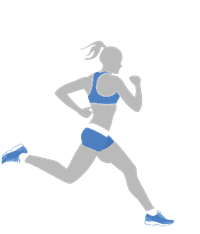
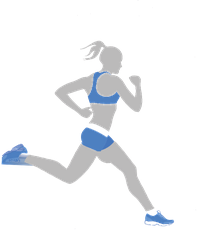
demo: 专家建议改横排+渐显；使用方式改为两条路径动画；口号条移到页尾；修掉左鞋缺口

Changed region(s): [[0.0, 0.5983, 0.18, 0.7179]]

diff --git a/demo/index.html b/demo/index.html
@@ -271,43 +271,60 @@
   @media (prefers-reduced-motion: reduce){ .orb-item{transition:none} }
 
 
-  /* 专家建议 */
+  /* 专家建议：横排 7 人 */
   .expert{background:var(--paper)}
-  .expert-grid{display:grid;grid-template-columns:1.15fr .85fr;gap:clamp(28px,4vw,64px);align-items:start}
-  .expert-list{list-style:none;margin:0;padding:0;display:grid;gap:14px}
-  .expert-list li{position:relative;padding-left:26px;font-size:clamp(.9rem,1.1vw,.98rem);line-height:1.9;color:var(--ink2)}
-  .expert-list li::before{content:"";position:absolute;left:0;top:.72em;width:9px;height:9px;border-radius:50%;
-    border:1.4px solid var(--gold);opacity:.75}
-  .expert-side{padding:clamp(24px,3vw,38px);border:1px solid var(--line);border-radius:14px;
-    background:linear-gradient(180deg,#fff, #FBF8F1);text-align:center}
-  .es-lead{font-size:.86rem;letter-spacing:.14em;color:var(--muted)}
-  .es-words{margin-top:14px;display:flex;flex-direction:column;gap:8px;
-    font-family:var(--serif);font-size:clamp(1.3rem,2.2vw,1.8rem);color:var(--gold);line-height:1.5}
-  .es-cta{margin-top:20px;padding-top:16px;border-top:1px solid var(--line);
-    font-size:.8rem;letter-spacing:.16em;color:var(--ink)}
+  .expert-row{list-style:none;margin:clamp(30px,4vw,50px) 0 0;padding:0;
+    display:grid;grid-template-columns:repeat(7,1fr);gap:clamp(10px,1.4vw,20px)}
+  .expert-row li{display:flex;flex-direction:column;gap:12px;padding:22px 16px;border:1px solid var(--line);
+    border-radius:12px;background:#fff;opacity:0;transform:translateY(16px);
+    transition:opacity .6s var(--ease),transform .6s var(--ease);
+    transition-delay:calc(var(--i) * 70ms)}
+  .expert.in .expert-row li{opacity:1;transform:none}
+  .expert-row li:hover{border-color:rgba(168,131,74,.45);transform:translateY(-4px)}
+  .ei{width:34px;height:34px;border-radius:50%;background:rgba(168,131,74,.10);display:grid;place-items:center}
+  .ei svg{width:18px;height:18px;fill:none;stroke:var(--gold);stroke-width:1.6;stroke-linecap:round;stroke-linejoin:round}
+  .expert-row b{font-size:.8rem;font-weight:500;line-height:1.65;color:var(--ink2)}
 
-  /* 内服 / 外用 */
+  /* 使用方式：两条路径 */
   .usage{background:var(--paper2);border-top:1px solid var(--line)}
-  .usage-grid{display:grid;grid-template-columns:1fr 1fr;gap:clamp(18px,2.4vw,30px)}
-  .u-card{background:#fff;border:1px solid var(--line);border-radius:14px;padding:clamp(24px,3vw,36px);
-    transition:transform .4s var(--ease),box-shadow .4s var(--ease)}
-  .u-card:hover{transform:translateY(-6px);box-shadow:0 26px 50px rgba(20,24,29,.10)}
-  .u-head{display:flex;align-items:center;gap:12px}
-  .u-ic{width:44px;height:44px;border-radius:50%;background:rgba(168,131,74,.12);display:grid;place-items:center}
-  .u-ic svg{width:23px;height:23px;fill:none;stroke:var(--gold);stroke-width:1.6;stroke-linecap:round;stroke-linejoin:round}
-  .u-head b{display:block;font-family:var(--serif);font-size:1.24rem;color:var(--ink)}
-  .u-head i{display:block;font-style:normal;font-size:.62rem;letter-spacing:.16em;color:var(--muted);text-transform:uppercase}
-  .u-sub{margin-top:16px;font-size:.82rem;letter-spacing:.1em;color:var(--gold)}
-  .u-text{margin-top:12px;font-size:.92rem;line-height:1.95;color:var(--ink2)}
-  .u-tip{margin-top:16px;padding:12px 14px;border-radius:10px;background:rgba(168,131,74,.06);
-    font-size:.8rem;line-height:1.8;color:var(--ink2)}
-  .u-tip b{margin-right:8px;color:var(--gold);font-weight:600}
-  .u-points{list-style:none;margin:18px 0 0;padding:0;display:grid;grid-template-columns:repeat(4,1fr);gap:8px}
-  .u-points li{font-size:.72rem;text-align:center;padding:8px 4px;border-radius:8px;
-    border:1px solid var(--line);color:var(--ink2)}
+  .paths{position:relative;margin-top:clamp(28px,4vw,46px);height:clamp(360px,42vw,470px)}
+  .paths-svg{position:absolute;inset:0;width:100%;height:100%;overflow:visible}
+  .p-line{fill:none;stroke:rgba(168,131,74,.55);stroke-width:1.6;stroke-dasharray:6 7;
+    pathLength:1;stroke-dashoffset:1;transition:stroke-dashoffset 1.6s var(--ease) .2s}
+  .usage.in .p-line{stroke-dashoffset:0}
+  .p-core{position:absolute;left:50%;top:0;transform:translate(-50%,-50%);
+    display:flex;align-items:center;gap:9px;padding:12px 20px;border-radius:999px;
+    background:var(--gold);color:#fff;box-shadow:0 14px 30px rgba(168,131,74,.28);white-space:nowrap}
+  .p-core svg{width:18px;height:18px;fill:none;stroke:#fff;stroke-width:1.6;stroke-linecap:round;stroke-linejoin:round}
+  .p-core span{font-size:.86rem;letter-spacing:.04em}
+  .p-branch{position:absolute;top:56%;width:min(360px,40%);padding:clamp(20px,2.6vw,30px);
+    border:1px solid var(--line);border-radius:14px;background:#fff;
+    box-shadow:0 18px 40px rgba(20,24,29,.07)}
+  .p-left{left:2%}
+  .p-right{right:2%}
+  .p-branch h3{margin:0;font-family:var(--serif);font-size:1.2rem;color:var(--ink);display:flex;align-items:baseline;gap:8px}
+  .p-branch h3 i{font-style:normal;font-size:.56rem;letter-spacing:.18em;color:var(--muted)}
+  .p-branch>p{margin-top:8px;font-size:.78rem;letter-spacing:.08em;color:var(--gold)}
+  .p-branch ol{list-style:none;margin:16px 0 0;padding:0;display:grid;gap:11px}
+  .p-branch li{font-size:.84rem;line-height:1.6;color:var(--ink2);display:flex;gap:10px}
+  .p-branch li b{flex:0 0 auto;font-size:.66rem;letter-spacing:.1em;color:var(--gold);padding-top:3px}
+
+  /* 底部口号条 */
+  .es-band{margin-top:clamp(36px,5vw,64px);padding:clamp(26px,3.4vw,40px);
+    border:1px solid var(--line);border-radius:16px;text-align:center;
+    background:linear-gradient(180deg,#fff,#FBF8F1)}
+  .es-lead{font-size:.84rem;letter-spacing:.16em;color:var(--muted)}
+  .es-words{margin-top:16px;display:flex;justify-content:center;gap:clamp(20px,4vw,60px);
+    font-family:var(--serif);font-size:clamp(1.2rem,2.2vw,1.7rem);color:var(--gold)}
+  .es-cta{margin-top:20px;padding-top:18px;border-top:1px solid var(--line);
+    font-size:.82rem;letter-spacing:.18em;color:var(--ink)}
   @media (max-width:960px){
-    .expert-grid,.usage-grid{grid-template-columns:1fr;gap:20px}
-    .u-points{grid-template-columns:repeat(2,1fr)}
+    .expert-row{grid-template-columns:repeat(2,1fr)}
+    .paths{height:auto}
+    .paths-svg{display:none}
+    .p-core{position:static;transform:none;display:inline-flex;margin:0 auto 18px}
+    .p-branch{position:static;width:100%;margin-top:14px}
+    .es-words{gap:14px;font-size:1.05rem}
   }
   /* STATS */
   .stats{background:var(--paper2);border-top:1px solid var(--line);border-bottom:1px solid var(--line)}
@@ -669,22 +686,9 @@
       <h2 class="reveal d1">哪些人，<br>需要补小分子活性肽？</h2>
       <p class="reveal d2">30 岁以后，身体合成肽的能力逐年下降。以下七类人，是最该补的一群。</p>
     </div>
-    <div class="expert-grid">
-      <ul class="expert-list reveal">
-        <li>免疫力低下、长期处于亚健康的人</li>
-        <li>需要预防和改善慢性病的人</li>
-        <li>需要预防骨质疏松、补充钙质的人</li>
-        <li>想增强体力、改善虚弱与易疲劳体质的人</li>
-        <li>想改善睡眠、增强记忆力的人</li>
-        <li>想抗衰除皱、美容养颜、恢复青春活力的人</li>
-        <li>想增强健康生殖能力的人</li>
-      </ul>
-      <aside class="expert-side reveal d1">
-        <p class="es-lead">补生命肽，就是</p>
-        <p class="es-words"><span>补能量</span><span>补青春</span><span>补活力</span></p>
-        <p class="es-cta">立即补肽 · 刻不容缓</p>
-      </aside>
-    </div>
+    <ul class="expert-row">
+      <li style="--i:0"><span class="ei"><svg viewBox="0 0 24 24"><path d="M12 3l7 3.5v5c0 4.5-3 7.5-7 9-4-1.5-7-4.5-7-9V6.5z"/></svg></span><b>免疫力低下、长期亚健康</b></li><li style="--i:1"><span class="ei"><svg viewBox="0 0 24 24"><path d="M12 20s-7-4.4-7-9.2A4 4 0 0 1 12 8a4 4 0 0 1 7 2.8C19 15.6 12 20 12 20z"/></svg></span><b>需预防和改善慢性病</b></li><li style="--i:2"><span class="ei"><svg viewBox="0 0 24 24"><path d="M8 4c0 4 1 7 4 7s4-3 4-7"/><path d="M12 11v9"/></svg></span><b>需预防骨质疏松、补钙</b></li><li style="--i:3"><span class="ei"><svg viewBox="0 0 24 24"><path d="M13 3 5 14h6l-1 7 8-11h-6z"/></svg></span><b>想增强体力、改善易疲劳</b></li><li style="--i:4"><span class="ei"><svg viewBox="0 0 24 24"><path d="M20 13a8 8 0 1 1-9-8"/><path d="M12 7v6l4 2"/></svg></span><b>想改善睡眠、增强记忆</b></li><li style="--i:5"><span class="ei"><svg viewBox="0 0 24 24"><path d="M12 4v4M12 16v4M4 12h4M16 12h4M7 7l3 3M17 17l-3-3M17 7l-3 3M7 17l3-3"/></svg></span><b>想抗衰除皱、美容养颜</b></li><li style="--i:6"><span class="ei"><svg viewBox="0 0 24 24"><path d="M10 20c0-8 5-12 10-13-1 9-5 13-10 13z"/><path d="M10 20 4 14"/></svg></span><b>想增强健康生殖能力</b></li>
+    </ul>
   </div>
 </section>
 
@@ -695,30 +699,44 @@
       <h2 class="reveal d1">内服与外用，<br>两条路径</h2>
       <p class="reveal d2">一瓶粉，两种用法：喝下去修里面，调开来敷外面。</p>
     </div>
-    <div class="usage-grid">
-      <article class="u-card reveal">
-        <div class="u-head">
-          <span class="u-ic"><svg viewBox="0 0 24 24"><path d="M7 4c0 5 2 8 5 8s5-3 5-8"/><path d="M12 12v9"/><path d="M8 21h8"/></svg></span>
-          <div><b>内服</b><i>Oral</i></div>
-        </div>
-        <p class="u-sub">以内养外 · 科学滋补 · 跨域修复</p>
-        <p class="u-text">直接给细胞补充小分子肽，激活细胞活性、代谢与修复能力。健康的细胞，会让你从内到外都轻一点。</p>
-        <p class="u-tip"><b>用法</b>30 岁以上，早晚空腹各一瓶；体质虚弱者可酌情加量。</p>
-      </article>
-      <article class="u-card reveal d1">
-        <div class="u-head">
-          <span class="u-ic"><svg viewBox="0 0 24 24"><circle cx="12" cy="12" r="8.5"/><path d="M9 10h.01M15 10h.01"/><path d="M9 14.5c1.8 1.4 4.2 1.4 6 0"/></svg></span>
-          <div><b>外用</b><i>External</i></div>
-        </div>
-        <p class="u-sub">日常护理 · 肤质升华 · 深层赋活</p>
-        <p class="u-text">不同分子量的肽对皮肤细胞形成立体支撑，可透皮吸收至真皮层，让皮肤更紧实、更有弹性。</p>
-        <p class="u-tip"><b>用法</b>洁面后取少量，以温水调开，轻拍至吸收；早晚各一次。</p>
-        <ul class="u-points">
-          <li>排毒养颜</li><li>紧致肌肤</li><li>收细毛孔</li><li>补水淡斑</li>
-          <li>淡化细纹</li><li>改善眼袋</li><li>改善颈纹</li><li>提升面部</li>
-        </ul>
-      </article>
+
+    <div class="paths">
+      <svg class="paths-svg" viewBox="0 0 1200 420" preserveAspectRatio="none" aria-hidden="true">
+        <path class="p-line" d="M600 60 C430 60 330 150 250 250"/>
+        <path class="p-line p-line-b" d="M600 60 C770 60 870 150 950 250"/>
+      </svg>
+
+      <div class="p-core">
+        <svg viewBox="0 0 24 24"><path d="M8 2h8v3H8z"/><path d="M8 5v13a3 3 0 0 0 3 3h2a3 3 0 0 0 3-3V5"/><path d="M8 11h8"/></svg>
+        <span>SMT 小分子活性肽</span>
+      </div>
+
+      <div class="p-branch p-left">
+        <h3>内服<i>ORAL</i></h3>
+        <p>以内养外 · 科学滋补</p>
+        <ol>
+          <li><b>01</b>早晚空腹各一支</li>
+          <li><b>02</b>直接倒入口中，温水送服</li>
+          <li><b>03</b>连续 30 天为一个观察周期</li>
+        </ol>
+      </div>
+
+      <div class="p-branch p-right">
+        <h3>外用<i>EXTERNAL</i></h3>
+        <p>日常护理 · 肤质升华</p>
+        <ol>
+          <li><b>01</b>洁面后取半支</li>
+          <li><b>02</b>温水调开，轻拍至吸收</li>
+          <li><b>03</b>早晚各一次，可叠加面霜</li>
+        </ol>
+      </div>
     </div>
+
+    <aside class="es-band reveal">
+      <p class="es-lead">补生命肽，就是</p>
+      <p class="es-words"><span>补能量</span><span>补青春</span><span>补活力</span></p>
+      <p class="es-cta">立即补肽 · 刻不容缓</p>
+    </aside>
   </div>
 </section>
 
@@ -1468,6 +1486,22 @@
     img.src = frames[idx].src;
   }
   requestAnimationFrame(tick);
+})();
+</script>
+
+<script>
+/* 通用：进入视口给 section 加 .in（专家建议横排、路径动画共用） */
+(function () {
+  var targets = document.querySelectorAll('.expert, .usage');
+  if (!targets.length || !('IntersectionObserver' in window)) {
+    targets.forEach(function (t) { t.classList.add('in'); });
+    return;
+  }
+  var io = new IntersectionObserver(function (es) {
+    es.forEach(function (e) { if (e.isIntersecting) { e.target.classList.add('in'); io.unobserve(e.target); } });
+  }, { threshold: 0.2 });
+  targets.forEach(function (t) { io.observe(t); });
+  /* sectionReveal */
 })();
 </script>
 <!-- vmodal-player -->
